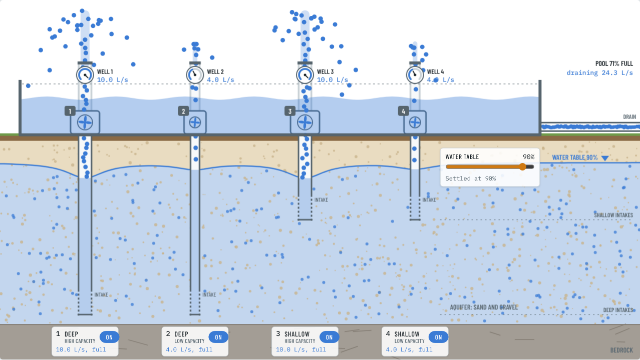
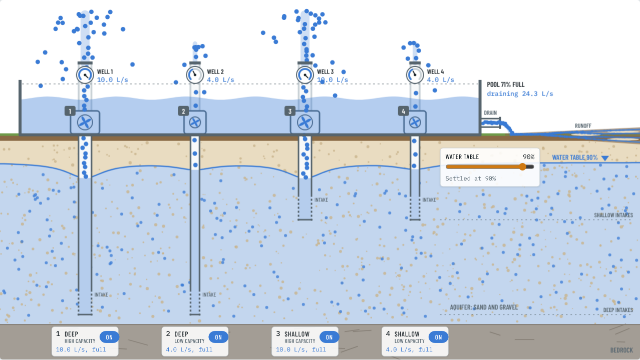
Fountain pool: narrower pool, drain spills into a delta on the ground
The pool's right wall now sits as far from well 4 as the left wall does
from well 1. The drain is a short pipe out of the side wall; its water
spills onto the ground and spreads through branching channels.

Claude-Session: https://claude.ai/code/session_014Cr9Jx2T9FJaknfAa3Mf5t

diff --git a/animations/aquifer-wells/index.html b/animations/aquifer-wells/index.html
@@ -224,7 +224,7 @@ button:focus-visible, input:focus-visible { outline: 2px solid var(--accent); ou
   </div>
   <p class="rotate-hint">Turn your phone sideways to see the full diagram and use its controls.</p>
 
-  <div class="stage" id="stage"><canvas id="cv" width="1280" height="720" aria-label="Cross-section of the ground. A sand and gravel aquifer holds water up to the water table. Four wells go down into it: two deep wells on the left and two shallow wells to their right, each with a low-capacity or high-capacity pump. The pumps sit in a large pool on the ground. Each one sends its water up past a flow meter and out of the top like a fountain, and the pool drains slowly through a pipe that runs off the right side of the page."></canvas>
+  <div class="stage" id="stage"><canvas id="cv" width="1280" height="720" aria-label="Cross-section of the ground. A sand and gravel aquifer holds water up to the water table. Four wells go down into it: two deep wells on the left and two shallow wells to their right, each with a low-capacity or high-capacity pump. The pumps sit in a large pool on the ground. Each one sends its water up past a flow meter and out of the top like a fountain, and the pool drains slowly out of a short pipe in its side, spilling onto the ground and spreading out in small channels like a river delta."></canvas>
     <!-- Controls laid over the diagram, positioned in diagram coordinates (1280 x 720) -->
     <div class="hud" id="hud">
       <div class="chip level-chip" style="left: 880px; top: 296px; width: 200px;">
@@ -386,10 +386,25 @@ window.Analog = (() => {
   const SPEED = 230;             // dot speed through the pipes, px/s
   const R = 4.5;                 // water dot radius
   // Pool on the ground holding the pumps; drains through its far wall at a rate that rises with its level
-  const POOL = { x0: 40, x1: 1080, top: 160, bottom: 268 };
+  const POOL = { x0: 40, x1: 960, top: 160, bottom: 268 };   // 130px from the outer wells to each wall
   const POOL_VOL = 400;          // litres when full
   const DRAIN_FULL = 34;         // L/s draining when full: all four pumps (28 L/s) settle it near 82%
-  const DRAIN_Y = POOL.bottom - 14;
+  const DRAIN_Y = POOL.bottom - 22;
+  const DRAIN_END = POOL.x1 + 40;  // the drain pipe sticks out this far, then spills onto the ground
+  // Channels the spilled water spreads along across the ground, like a small river delta
+  const DELTA = [
+    [[1022, 269], [1075, 269], [1135, 265], [1205, 262], [1284, 259]],
+    [[1022, 269], [1075, 269], [1135, 265], [1205, 268], [1284, 267]],
+    [[1022, 269], [1075, 269], [1135, 274], [1205, 274], [1284, 276]],
+    [[1022, 269], [1075, 269], [1135, 274], [1205, 280], [1284, 285]],
+  ].map(pts => {
+    const segs = []; let L = 0;
+    for (let k = 1; k < pts.length; k++) {
+      const [x0, y0] = pts[k - 1], [x1, y1] = pts[k], len = Math.hypot(x1 - x0, y1 - y0);
+      segs.push({ x0, y0, dx: (x1 - x0) / len, dy: (y1 - y0) / len, s0: L, len }); L += len;
+    }
+    return { pts, segs, len: L };
+  });
   const NOZZLE_Y = 126;          // fountain nozzles, above the pool rim
   const METER_Y = 150;           // flow meter on each riser
   const G = 520;                 // gravity for the fountain drops, px/s^2
@@ -516,8 +531,20 @@ window.Analog = (() => {
     drain = DRAIN_FULL * pool;
     pool = Math.max(0, Math.min(1, pool + (inflow - drain) * dt / POOL_VOL));
     drainAcc += drain * DOTS_PER_LS * dt;
-    while (drainAcc >= 1) { drainAcc -= 1; drainDots.push({ x: POOL.x1 + 4, off: (Math.random() - 0.5) * 8 }); }
-    for (let k = drainDots.length - 1; k >= 0; k--) { drainDots[k].x += 120 * dt; if (drainDots[k].x > W + 6) drainDots.splice(k, 1); }
+    while (drainAcc >= 1) { drainAcc -= 1; drainDots.push({ x: POOL.x1 + 4, y: DRAIN_Y + (Math.random() - 0.5) * 4, phase: 'pipe' }); }
+    for (let k = drainDots.length - 1; k >= 0; k--) {
+      const d = drainDots[k];
+      if (d.phase === 'pipe') {
+        d.x += 120 * dt;
+        if (d.x >= DRAIN_END) { d.phase = 'fall'; d.vx = 50 + drain * 1.5; d.vy = 0; }
+      } else if (d.phase === 'fall') {
+        d.vy += G * dt; d.x += d.vx * dt; d.y += d.vy * dt;
+        if (d.y >= GROUND - 1) { d.phase = 'delta'; d.route = DELTA[Math.floor(Math.random() * DELTA.length)]; d.s = 0; }
+      } else {
+        d.s += 75 * dt;
+        if (d.s >= d.route.len) drainDots.splice(k, 1);
+      }
+    }
 
     // Aquifer water drifts slowly, and toward any running well's screen
     for (const p of seep) {
@@ -727,10 +754,39 @@ window.Analog = (() => {
   }
 
   function drawPoolBack() {
-    // drain pipe through the far wall just above the floor, running off the page
-    ctx.strokeStyle = colors['steel-dark']; ctx.lineWidth = 20; ctx.beginPath(); ctx.moveTo(POOL.x1 - 2, DRAIN_Y); ctx.lineTo(W + 4, DRAIN_Y); ctx.stroke();
+    const q = Math.min(1, drain / DRAIN_FULL);
+    // wet ground fanning out where the drain water spreads
+    ctx.fillStyle = colors.soil; ctx.globalAlpha = 0.35 + 0.4 * q;
+    ctx.beginPath(); ctx.moveTo(1010, 267.5); ctx.lineTo(W, 255); ctx.lineTo(W, 289); ctx.lineTo(1010, 271); ctx.closePath(); ctx.fill();
+    ctx.globalAlpha = 1;
+    // sand bars between the channels
+    ctx.fillStyle = colors.sand;
+    for (const [x, y, rx] of [[1172, 269.5, 30], [1246, 264, 32], [1246, 279, 32]]) { ctx.beginPath(); ctx.ellipse(x, y, rx, 2.6, 0, 0, Math.PI * 2); ctx.fill(); }
+    // delta channels, wider and brighter the more is draining
+    if (drain > 0.05) {
+      ctx.strokeStyle = colors.water; ctx.lineCap = 'round'; ctx.lineJoin = 'round';
+      ctx.globalAlpha = 0.5 + 0.4 * q; ctx.lineWidth = 1.2 + 2.6 * q;
+      for (const r of DELTA) { ctx.beginPath(); r.pts.forEach(([x, y], k) => k ? ctx.lineTo(x, y) : ctx.moveTo(x, y)); ctx.stroke(); }
+      // the spill from the pipe end down to the ground
+      ctx.globalAlpha = 0.3; ctx.lineWidth = 3 + 7 * q;
+      ctx.beginPath(); ctx.moveTo(DRAIN_END, DRAIN_Y); ctx.quadraticCurveTo(DRAIN_END + 16, DRAIN_Y, 1022, GROUND - 1); ctx.stroke();
+      ctx.globalAlpha = 1; ctx.lineCap = 'butt'; ctx.lineJoin = 'miter';
+    }
+    // short drain pipe out of the side wall
+    ctx.strokeStyle = colors['steel-dark']; ctx.lineWidth = 20; ctx.beginPath(); ctx.moveTo(POOL.x1 - 2, DRAIN_Y); ctx.lineTo(DRAIN_END, DRAIN_Y); ctx.stroke();
     ctx.strokeStyle = colors.vessel; ctx.lineWidth = 14; ctx.stroke();
-    for (const d of drainDots) dot(d.x, DRAIN_Y + d.off * 0.4, colors.water, 3.5);
+    ctx.strokeStyle = colors['steel-dark']; ctx.lineWidth = 4;
+    ctx.beginPath(); ctx.moveTo(DRAIN_END, DRAIN_Y - 12); ctx.lineTo(DRAIN_END, DRAIN_Y + 12); ctx.stroke();
+    for (const d of drainDots) {
+      if (d.phase === 'delta') {
+        let g = d.route.segs[d.route.segs.length - 1];
+        for (const sg of d.route.segs) if (d.s <= sg.s0 + sg.len) { g = sg; break; }
+        const t = d.s - g.s0;
+        ctx.globalAlpha = Math.max(0, 1 - d.s / d.route.len);
+        dot(g.x0 + g.dx * t, g.y0 + g.dy * t, colors.water, 2.6);
+        ctx.globalAlpha = 1;
+      } else if (d.x <= DRAIN_END + 1 || d.phase === 'fall') dot(d.x, d.y, colors.water, 3.5);
+    }
   }
   function drawPoolWater() {
     const { x0, x1, bottom } = POOL, sy = poolSurface(), t = performance.now() / 1000;
@@ -752,12 +808,13 @@ window.Analog = (() => {
     ctx.strokeStyle = colors['steel-dark']; ctx.lineWidth = 6; ctx.lineJoin = 'round';
     ctx.beginPath(); ctx.moveTo(x0, top); ctx.lineTo(x0, bottom + 2); ctx.lineTo(x1, bottom + 2); ctx.lineTo(x1, top); ctx.stroke();
     ctx.lineJoin = 'miter';
-    ctx.fillStyle = colors.muted; ctx.font = '600 12px "Barlow Condensed", sans-serif'; ctx.textAlign = 'right';
-    ctx.fillText('DRAIN', W - 8, DRAIN_Y - 16);
-    ctx.fillStyle = colors.fg; ctx.font = '600 14px "Barlow Condensed", sans-serif'; ctx.textAlign = 'right';
-    ctx.fillText('POOL ' + Math.round(pool * 100) + '% FULL', W - 14, top - 28);
+    ctx.fillStyle = colors.muted; ctx.font = '600 12px "Barlow Condensed", sans-serif'; ctx.textAlign = 'left';
+    ctx.fillText('DRAIN', x1 + 8, DRAIN_Y - 16);
+    ctx.fillText('RUNOFF', 1150, GROUND - 14);
+    ctx.fillStyle = colors.fg; ctx.font = '600 14px "Barlow Condensed", sans-serif';
+    ctx.fillText('POOL ' + Math.round(pool * 100) + '% FULL', x1 + 14, top + 14);
     ctx.fillStyle = colors.water; ctx.font = '500 13px "IBM Plex Mono", monospace';
-    ctx.fillText('draining ' + drain.toFixed(1) + ' L/s', W - 14, top - 10);
+    ctx.fillText('draining ' + drain.toFixed(1) + ' L/s', x1 + 14, top + 32);
   }
 
   // DOM readouts

diff --git a/animations/aquifer-wells/src/index.html b/animations/aquifer-wells/src/index.html
@@ -73,7 +73,7 @@
   </div>
   <p class="rotate-hint">Turn your phone sideways to see the full diagram and use its controls.</p>
 
-  <div class="stage" id="stage"><canvas id="cv" width="1280" height="720" aria-label="Cross-section of the ground. A sand and gravel aquifer holds water up to the water table. Four wells go down into it: two deep wells on the left and two shallow wells to their right, each with a low-capacity or high-capacity pump. The pumps sit in a large pool on the ground. Each one sends its water up past a flow meter and out of the top like a fountain, and the pool drains slowly through a pipe that runs off the right side of the page."></canvas>
+  <div class="stage" id="stage"><canvas id="cv" width="1280" height="720" aria-label="Cross-section of the ground. A sand and gravel aquifer holds water up to the water table. Four wells go down into it: two deep wells on the left and two shallow wells to their right, each with a low-capacity or high-capacity pump. The pumps sit in a large pool on the ground. Each one sends its water up past a flow meter and out of the top like a fountain, and the pool drains slowly out of a short pipe in its side, spilling onto the ground and spreading out in small channels like a river delta."></canvas>
     <!-- Controls laid over the diagram, positioned in diagram coordinates (1280 x 720) -->
     <div class="hud" id="hud">
       <div class="chip level-chip" style="left: 880px; top: 296px; width: 200px;">
@@ -129,10 +129,25 @@
   const SPEED = 230;             // dot speed through the pipes, px/s
   const R = 4.5;                 // water dot radius
   // Pool on the ground holding the pumps; drains through its far wall at a rate that rises with its level
-  const POOL = { x0: 40, x1: 1080, top: 160, bottom: 268 };
+  const POOL = { x0: 40, x1: 960, top: 160, bottom: 268 };   // 130px from the outer wells to each wall
   const POOL_VOL = 400;          // litres when full
   const DRAIN_FULL = 34;         // L/s draining when full: all four pumps (28 L/s) settle it near 82%
-  const DRAIN_Y = POOL.bottom - 14;
+  const DRAIN_Y = POOL.bottom - 22;
+  const DRAIN_END = POOL.x1 + 40;  // the drain pipe sticks out this far, then spills onto the ground
+  // Channels the spilled water spreads along across the ground, like a small river delta
+  const DELTA = [
+    [[1022, 269], [1075, 269], [1135, 265], [1205, 262], [1284, 259]],
+    [[1022, 269], [1075, 269], [1135, 265], [1205, 268], [1284, 267]],
+    [[1022, 269], [1075, 269], [1135, 274], [1205, 274], [1284, 276]],
+    [[1022, 269], [1075, 269], [1135, 274], [1205, 280], [1284, 285]],
+  ].map(pts => {
+    const segs = []; let L = 0;
+    for (let k = 1; k < pts.length; k++) {
+      const [x0, y0] = pts[k - 1], [x1, y1] = pts[k], len = Math.hypot(x1 - x0, y1 - y0);
+      segs.push({ x0, y0, dx: (x1 - x0) / len, dy: (y1 - y0) / len, s0: L, len }); L += len;
+    }
+    return { pts, segs, len: L };
+  });
   const NOZZLE_Y = 126;          // fountain nozzles, above the pool rim
   const METER_Y = 150;           // flow meter on each riser
   const G = 520;                 // gravity for the fountain drops, px/s^2
@@ -259,8 +274,20 @@
     drain = DRAIN_FULL * pool;
     pool = Math.max(0, Math.min(1, pool + (inflow - drain) * dt / POOL_VOL));
     drainAcc += drain * DOTS_PER_LS * dt;
-    while (drainAcc >= 1) { drainAcc -= 1; drainDots.push({ x: POOL.x1 + 4, off: (Math.random() - 0.5) * 8 }); }
-    for (let k = drainDots.length - 1; k >= 0; k--) { drainDots[k].x += 120 * dt; if (drainDots[k].x > W + 6) drainDots.splice(k, 1); }
+    while (drainAcc >= 1) { drainAcc -= 1; drainDots.push({ x: POOL.x1 + 4, y: DRAIN_Y + (Math.random() - 0.5) * 4, phase: 'pipe' }); }
+    for (let k = drainDots.length - 1; k >= 0; k--) {
+      const d = drainDots[k];
+      if (d.phase === 'pipe') {
+        d.x += 120 * dt;
+        if (d.x >= DRAIN_END) { d.phase = 'fall'; d.vx = 50 + drain * 1.5; d.vy = 0; }
+      } else if (d.phase === 'fall') {
+        d.vy += G * dt; d.x += d.vx * dt; d.y += d.vy * dt;
+        if (d.y >= GROUND - 1) { d.phase = 'delta'; d.route = DELTA[Math.floor(Math.random() * DELTA.length)]; d.s = 0; }
+      } else {
+        d.s += 75 * dt;
+        if (d.s >= d.route.len) drainDots.splice(k, 1);
+      }
+    }
 
     // Aquifer water drifts slowly, and toward any running well's screen
     for (const p of seep) {
@@ -470,10 +497,39 @@
   }
 
   function drawPoolBack() {
-    // drain pipe through the far wall just above the floor, running off the page
-    ctx.strokeStyle = colors['steel-dark']; ctx.lineWidth = 20; ctx.beginPath(); ctx.moveTo(POOL.x1 - 2, DRAIN_Y); ctx.lineTo(W + 4, DRAIN_Y); ctx.stroke();
+    const q = Math.min(1, drain / DRAIN_FULL);
+    // wet ground fanning out where the drain water spreads
+    ctx.fillStyle = colors.soil; ctx.globalAlpha = 0.35 + 0.4 * q;
+    ctx.beginPath(); ctx.moveTo(1010, 267.5); ctx.lineTo(W, 255); ctx.lineTo(W, 289); ctx.lineTo(1010, 271); ctx.closePath(); ctx.fill();
+    ctx.globalAlpha = 1;
+    // sand bars between the channels
+    ctx.fillStyle = colors.sand;
+    for (const [x, y, rx] of [[1172, 269.5, 30], [1246, 264, 32], [1246, 279, 32]]) { ctx.beginPath(); ctx.ellipse(x, y, rx, 2.6, 0, 0, Math.PI * 2); ctx.fill(); }
+    // delta channels, wider and brighter the more is draining
+    if (drain > 0.05) {
+      ctx.strokeStyle = colors.water; ctx.lineCap = 'round'; ctx.lineJoin = 'round';
+      ctx.globalAlpha = 0.5 + 0.4 * q; ctx.lineWidth = 1.2 + 2.6 * q;
+      for (const r of DELTA) { ctx.beginPath(); r.pts.forEach(([x, y], k) => k ? ctx.lineTo(x, y) : ctx.moveTo(x, y)); ctx.stroke(); }
+      // the spill from the pipe end down to the ground
+      ctx.globalAlpha = 0.3; ctx.lineWidth = 3 + 7 * q;
+      ctx.beginPath(); ctx.moveTo(DRAIN_END, DRAIN_Y); ctx.quadraticCurveTo(DRAIN_END + 16, DRAIN_Y, 1022, GROUND - 1); ctx.stroke();
+      ctx.globalAlpha = 1; ctx.lineCap = 'butt'; ctx.lineJoin = 'miter';
+    }
+    // short drain pipe out of the side wall
+    ctx.strokeStyle = colors['steel-dark']; ctx.lineWidth = 20; ctx.beginPath(); ctx.moveTo(POOL.x1 - 2, DRAIN_Y); ctx.lineTo(DRAIN_END, DRAIN_Y); ctx.stroke();
     ctx.strokeStyle = colors.vessel; ctx.lineWidth = 14; ctx.stroke();
-    for (const d of drainDots) dot(d.x, DRAIN_Y + d.off * 0.4, colors.water, 3.5);
+    ctx.strokeStyle = colors['steel-dark']; ctx.lineWidth = 4;
+    ctx.beginPath(); ctx.moveTo(DRAIN_END, DRAIN_Y - 12); ctx.lineTo(DRAIN_END, DRAIN_Y + 12); ctx.stroke();
+    for (const d of drainDots) {
+      if (d.phase === 'delta') {
+        let g = d.route.segs[d.route.segs.length - 1];
+        for (const sg of d.route.segs) if (d.s <= sg.s0 + sg.len) { g = sg; break; }
+        const t = d.s - g.s0;
+        ctx.globalAlpha = Math.max(0, 1 - d.s / d.route.len);
+        dot(g.x0 + g.dx * t, g.y0 + g.dy * t, colors.water, 2.6);
+        ctx.globalAlpha = 1;
+      } else if (d.x <= DRAIN_END + 1 || d.phase === 'fall') dot(d.x, d.y, colors.water, 3.5);
+    }
   }
   function drawPoolWater() {
     const { x0, x1, bottom } = POOL, sy = poolSurface(), t = performance.now() / 1000;
@@ -495,12 +551,13 @@
     ctx.strokeStyle = colors['steel-dark']; ctx.lineWidth = 6; ctx.lineJoin = 'round';
     ctx.beginPath(); ctx.moveTo(x0, top); ctx.lineTo(x0, bottom + 2); ctx.lineTo(x1, bottom + 2); ctx.lineTo(x1, top); ctx.stroke();
     ctx.lineJoin = 'miter';
-    ctx.fillStyle = colors.muted; ctx.font = '600 12px "Barlow Condensed", sans-serif'; ctx.textAlign = 'right';
-    ctx.fillText('DRAIN', W - 8, DRAIN_Y - 16);
-    ctx.fillStyle = colors.fg; ctx.font = '600 14px "Barlow Condensed", sans-serif'; ctx.textAlign = 'right';
-    ctx.fillText('POOL ' + Math.round(pool * 100) + '% FULL', W - 14, top - 28);
+    ctx.fillStyle = colors.muted; ctx.font = '600 12px "Barlow Condensed", sans-serif'; ctx.textAlign = 'left';
+    ctx.fillText('DRAIN', x1 + 8, DRAIN_Y - 16);
+    ctx.fillText('RUNOFF', 1150, GROUND - 14);
+    ctx.fillStyle = colors.fg; ctx.font = '600 14px "Barlow Condensed", sans-serif';
+    ctx.fillText('POOL ' + Math.round(pool * 100) + '% FULL', x1 + 14, top + 14);
     ctx.fillStyle = colors.water; ctx.font = '500 13px "IBM Plex Mono", monospace';
-    ctx.fillText('draining ' + drain.toFixed(1) + ' L/s', W - 14, top - 10);
+    ctx.fillText('draining ' + drain.toFixed(1) + ' L/s', x1 + 14, top + 32);
   }
 
   // DOM readouts

diff --git a/README.md b/README.md
@@ -60,4 +60,4 @@ Four wells draw from one sand and gravel aquifer above bedrock. The pumps stand 
 - Each well has a 50px intake screen. A pump runs at full rate while the water near its well is above the screen, slows as the water drops past the screen, and runs dry below it.
 - A running pump pulls the water table down around its well, 3px per L/s, so a high-capacity pump starts losing flow at a higher water table than a low-capacity one at the same depth.
 - Flow shows as dots rising in each pipe (2.4 dots/s per L/s at a constant speed, so tighter spacing means more flow), a flow meter on each riser, and the fountain's height (10.5px per L/s) and width.
-- The pool drains through a pipe in its far wall that runs off the page. It holds 400 L and drains at 34 L/s × how full it is, so it settles at (total pumped ÷ 34): about 82% with all four pumps at full rate.
+- The pool drains through a short pipe in its side wall. The water spills onto the ground and spreads out in channels like a small river delta, wider and brighter the more is draining. It holds 400 L and drains at 34 L/s × how full it is, so it settles at (total pumped ÷ 34): about 82% with all four pumps at full rate.
